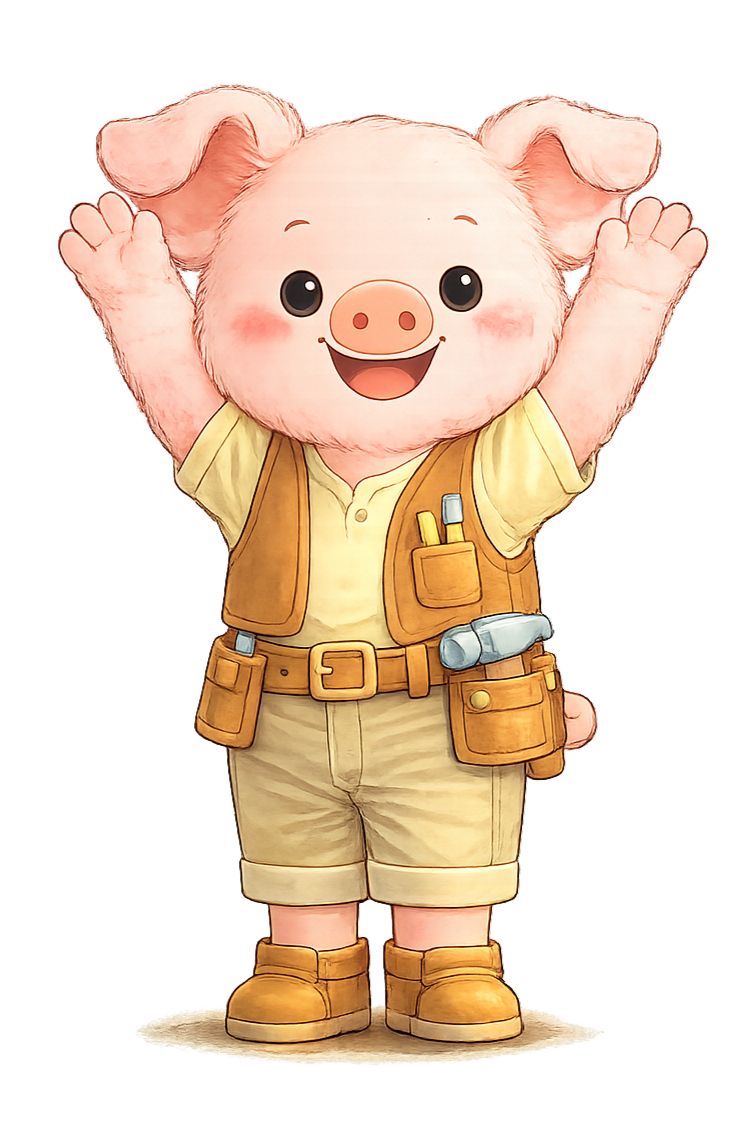
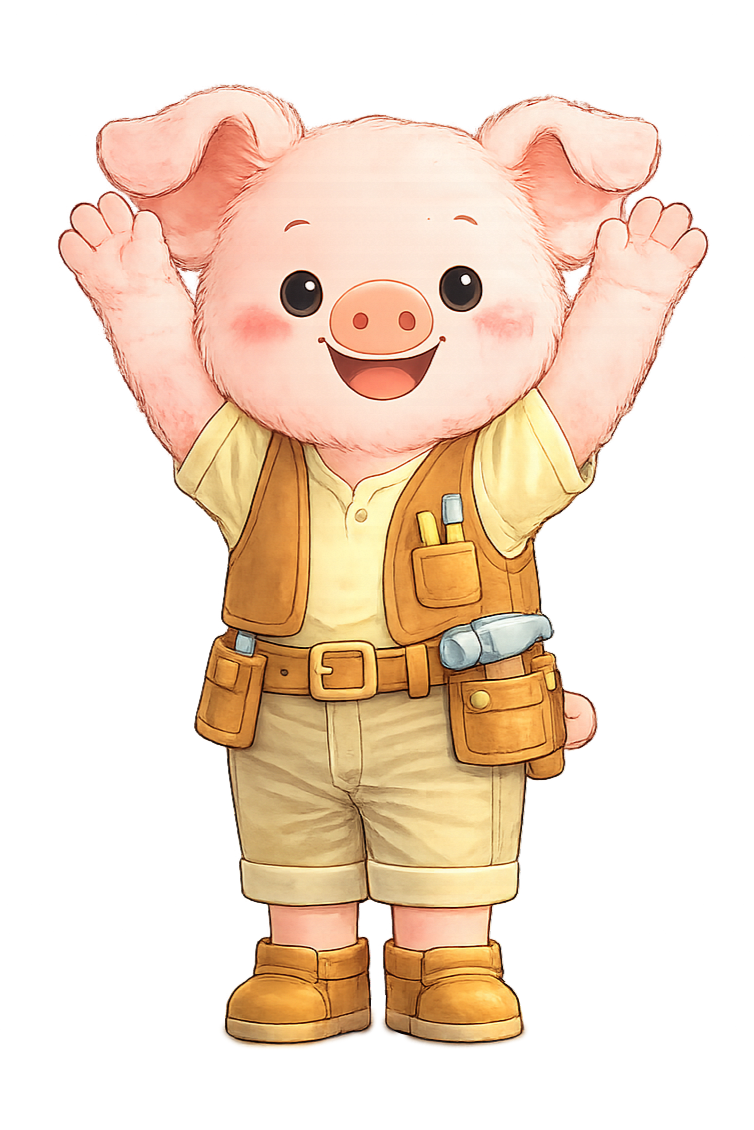
changes

Changed region(s): [[0.183, 0.8673, 0.7931, 0.9602]]

diff --git a/src/app/globals.css b/src/app/globals.css
@@ -15,6 +15,7 @@ body {
   padding: 0;
   width: 100%;
   height: 100%;
+  overflow-x: hidden;
   font-family: "Trebuchet MS", "Comic Sans MS", system-ui, sans-serif;
   color: var(--text);
   background: var(--sky);
@@ -25,8 +26,16 @@ body {
   width: 100%;
   height: 100dvh;
   overflow-y: auto;
+  overflow-x: hidden;
   scroll-snap-type: y mandatory;
   scroll-behavior: smooth;
+  scrollbar-width: none;
+  -ms-overflow-style: none;
+}
+
+.main::-webkit-scrollbar {
+  width: 0;
+  height: 0;
 }
 
 .section {
@@ -430,6 +439,47 @@ body {
   opacity: 1;
 }
 
+.section--04-tool {
+  position: absolute;
+  bottom: 9vh;
+  appearance: none;
+  border: 0;
+  background: transparent;
+  padding: 0;
+  cursor: pointer;
+  z-index: 2;
+}
+
+.section--04-tool:focus-visible {
+  outline: 3px solid #ffb703;
+  outline-offset: 6px;
+  border-radius: 10px;
+}
+
+.section--04-tool--hammer {
+  left: 49%;
+  bottom: 8.4vh;
+}
+
+.section--04-tool--nail {
+  left: 69%;
+  bottom: 12vh;
+}
+
+.section--04-tool-img {
+  width: clamp(76px, 8.4vw, 132px);
+  height: auto;
+  user-select: none;
+}
+
+.section--04-tool-img--wobble-a {
+  animation: tool-wobble-a 420ms ease;
+}
+
+.section--04-tool-img--wobble-b {
+  animation: tool-wobble-b 420ms ease;
+}
+
 @keyframes dust-cloud {
   0% {
     opacity: 0;
@@ -653,5 +703,53 @@ body {
   .section--04-pig-happy {
     right: 2vw;
     width: clamp(130px, 29vw, 205px);
+  }
+
+  .section--04-tool {
+    bottom: 10vh;
+  }
+
+  .section--04-tool--hammer {
+    left: 42%;
+    bottom: 9.4vh;
+  }
+
+  .section--04-tool--nail {
+    left: 77%;
+    bottom: 13vh;
+  }
+
+  .section--04-tool-img {
+    width: clamp(66px, 15.5vw, 112px);
+  }
+}
+
+@keyframes tool-wobble-a {
+  0% {
+    transform: rotate(0deg);
+  }
+  40% {
+    transform: rotate(-12deg);
+  }
+  75% {
+    transform: rotate(7deg);
+  }
+  100% {
+    transform: rotate(0deg);
+  }
+}
+
+@keyframes tool-wobble-b {
+  0% {
+    transform: rotate(0deg);
+  }
+  40% {
+    transform: rotate(12deg);
+  }
+  75% {
+    transform: rotate(-7deg);
+  }
+  100% {
+    transform: rotate(0deg);
   }
 }
